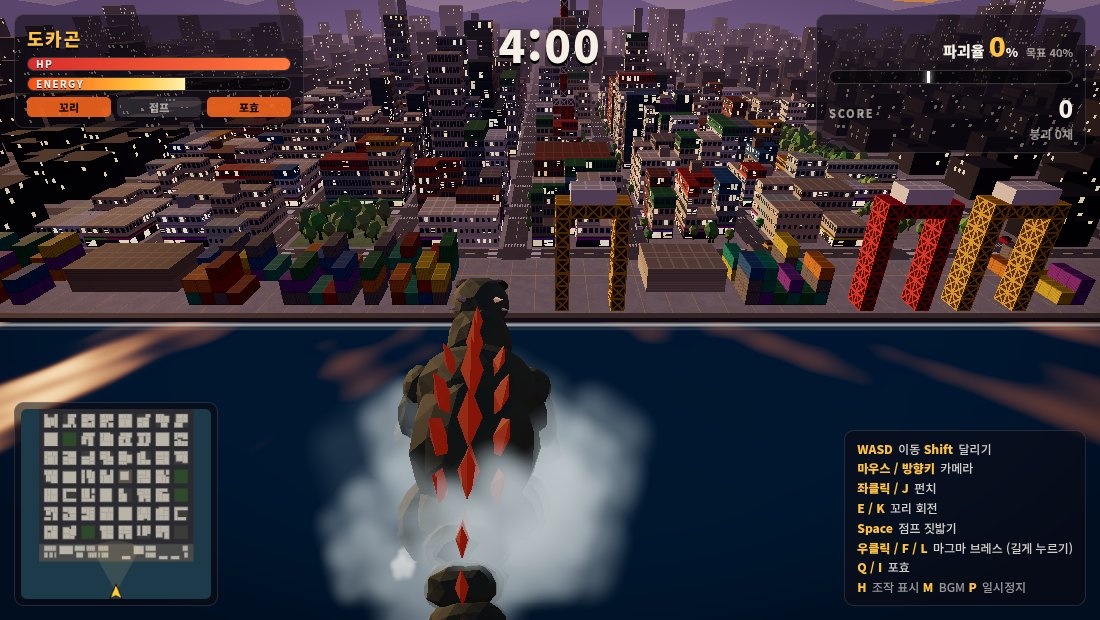
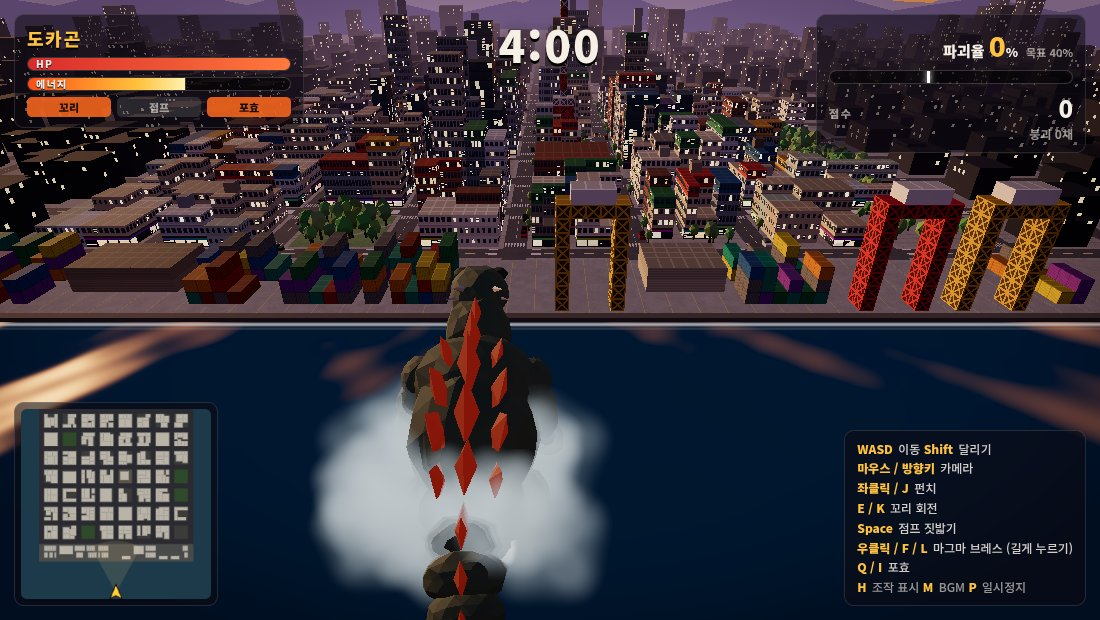
남은 영어 UI(PAUSE, ENERGY, SCORE, STAGE 등) 한글화 및 스크린샷 갱신

diff --git a/index.html b/index.html
@@ -26,7 +26,7 @@
         <div class="hud-top-left panel">
           <div class="kaiju-name">도카곤</div>
           <div class="bar hp"><div class="bar-fill" id="hp-fill"></div><span class="bar-label">HP</span></div>
-          <div class="bar energy"><div class="bar-fill" id="energy-fill"></div><span class="bar-label">ENERGY</span></div>
+          <div class="bar energy"><div class="bar-fill" id="energy-fill"></div><span class="bar-label">에너지</span></div>
           <div class="cooldowns">
             <span class="cd" id="cd-tail">꼬리</span>
             <span class="cd" id="cd-jump">점프</span>
@@ -41,7 +41,7 @@
         <div class="hud-top-right panel">
           <div class="destruction-label">파괴율 <span id="destruction-pct">0</span><small>%</small><span class="goal-text">목표 <span id="goal-pct">50</span>%</span></div>
           <div class="bar destruction"><div class="bar-fill" id="destruction-fill"></div><div class="goal-marker" id="goal-marker"></div></div>
-          <div class="score-row"><span class="score-label">SCORE</span><span id="score">0</span></div>
+          <div class="score-row"><span class="score-label">점수</span><span id="score">0</span></div>
           <div class="buildings-row">붕괴 <span id="buildings-count">0</span>채</div>
         </div>
 
@@ -96,7 +96,7 @@
         <div class="title-wrap">
           <div class="title-sub">KAIJU DOKAN!</div>
           <h1 class="title-main">괴수<span>도칸!</span></h1>
-          <div class="title-stage">STAGE 1　해안 도시</div>
+          <div class="title-stage">스테이지 1　해안 도시</div>
           <button id="btn-start" class="btn btn-primary" disabled>불러오는 중…</button>
           <button id="btn-settings-title" class="btn btn-small">설정</button>
           <div class="title-mission">
@@ -125,7 +125,7 @@
       <!-- ===== PAUSE ===== -->
       <div id="pause-screen" class="screen hidden">
         <div class="menu-box">
-          <h2>PAUSE</h2>
+          <h2>일시정지</h2>
           <button id="btn-resume" class="btn btn-primary">계속하기</button>
           <button id="btn-finish-pause" class="btn hidden">여기서 끝내고 결과 보기</button>
           <button id="btn-settings-pause" class="btn">설정</button>
@@ -187,7 +187,7 @@
       <!-- ===== RESULT ===== -->
       <div id="result-screen" class="screen hidden">
         <div class="menu-box result-box">
-          <h2 id="result-title">STAGE CLEAR!</h2>
+          <h2 id="result-title">스테이지 클리어!</h2>
           <div id="result-rank" class="rank">S</div>
           <table class="result-table">
             <tbody id="result-rows"></tbody>
@@ -195,7 +195,7 @@
           <div id="result-best" class="result-best"></div>
           <button id="btn-retry" class="btn btn-primary">다시 하기</button>
           <button id="btn-title" class="btn">타이틀로</button>
-          <div class="next-stage-note">STAGE 2는 준비 중…</div>
+          <div class="next-stage-note">스테이지 2는 준비 중…</div>
         </div>
       </div>
 

diff --git a/src/game/game.ts b/src/game/game.ts
@@ -304,7 +304,7 @@ export class Game {
     this.hud.show(true);
     this.setState('intro');
     this.rig.cinematic = { pos: new THREE.Vector3(), look: new THREE.Vector3() };
-    this.hud.showBanner(`STAGE ${this.stage.id}　${this.stage.name}`, '', 2.6);
+    this.hud.showBanner(`스테이지 ${this.stage.id}　${this.stage.name}`, '', 2.6);
     window.setTimeout(() => {
       if (this.state === 'intro') this.hud.showBanner(`도시 파괴율 ${Math.round(this.stage.goal * 100)}%를 달성하라!`, 'small', 2.4);
     }, 2400);
@@ -326,7 +326,7 @@ export class Game {
     this.focusPoint(this.focus);
     this.rig.snapTo(this.focus);
     this.hud.clearBanners();
-    this.hud.showBanner('START!', 'gold', 1.2);
+    this.hud.showBanner('시작!', 'gold', 1.2);
     this.audio.startMusic();
     this.lockPointer();
   }
@@ -360,7 +360,7 @@ export class Game {
     const f = finalScore(s.score.score, success, s.timeLeft, b.destructionRatio, this.stage.goal);
     const rank = rankFor(f.total, success, this.stage.rank);
     const title = document.getElementById('result-title')!;
-    title.textContent = success ? 'STAGE CLEAR!' : s.world.kaiju.dead ? 'GAME OVER' : 'TIME UP';
+    title.textContent = success ? '스테이지 클리어!' : s.world.kaiju.dead ? '게임 오버' : '시간 종료';
     title.classList.toggle('fail', !success);
     document.getElementById('result-rank')!.textContent = rank;
     const st = s.score.stats;
@@ -392,7 +392,7 @@ export class Game {
     if (f.total > this.best.score) {
       this.best = { score: f.total, rank };
       this.saveSettings();
-      bestEl.textContent = 'NEW RECORD!';
+      bestEl.textContent = '신기록!';
     } else {
       bestEl.textContent = this.best.score > 0 ? `최고 점수 ${formatInt(this.best.score)}` : '';
     }

diff --git a/src/game/session.ts b/src/game/session.ts
@@ -150,7 +150,7 @@ export class Session {
     this.spawnWaves(dt);
     if (!this.cleared && this.world.buildings.destructionRatio >= this.stage.goal) {
       this.cleared = true;
-      this.fb.banner('목표 달성! STAGE CLEAR!', 'gold', 3);
+      this.fb.banner('목표 달성! 스테이지 클리어!', 'gold', 3);
       this.fb.flash(1);
       this.audio.jingle(true);
     }

diff --git a/src/stages/stages.ts b/src/stages/stages.ts
@@ -29,7 +29,7 @@ export interface StageDef {
 export const STAGE1: StageDef = {
   id: 1,
   name: '해안 도시',
-  subtitle: 'BAY CITY',
+  subtitle: '해안 도시',
   seed: 20260926,
   blocksX: 8,
   blocksZ: 7,
